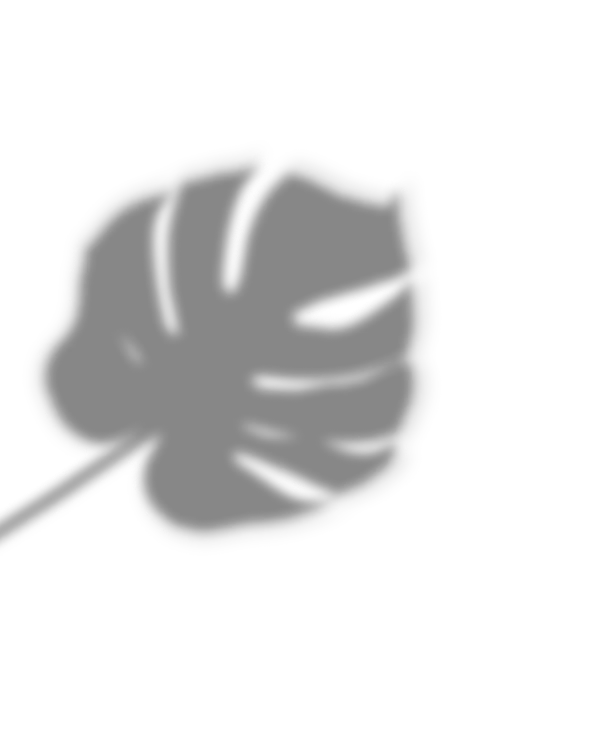
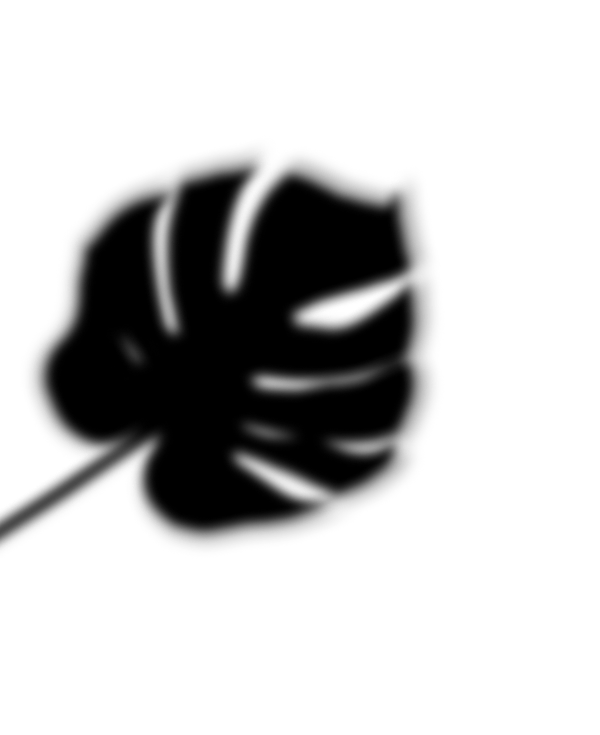
Black and white, high contrast; coloured wax in the chameleon
- Background rebuilt from the colour version by hue: the sky and everything
  above the sunset pure white, the sea and ground black (pale water near the
  horizon fades through grey)
- Black sun, black leaves, laptop as a white outline with black screen/keys;
  white wave lines on the water
- Contact on the black sea: white type, dark glass buttons, white icons
- The chameleon is a black lava lamp whose wax keeps each project's colour
- Cloud layers hidden (nothing to show on a white sky)

Claude-Session: https://claude.ai/code/session_01DvA43kwznhfsetrajp2DeL

Changed region(s): [[0.0, 0.2095, 0.72, 0.7483]]

diff --git a/styles.css b/styles.css
@@ -36,7 +36,7 @@ body {
   height: 6797px;
   overflow: clip;   /* not hidden: that would stop the sticky chameleon */
   /* All artwork, exported from the Figma frame with text and icons hidden */
-  background: #fff url("assets/background.webp?v=bw") top left / 1440px 6797px no-repeat;
+  background: #fff url("assets/background.webp?v=bw3") top left / 1440px 6797px no-repeat;
   /* script.js sets `zoom` so the 1440px design fills the viewport width */
 }
 
@@ -80,7 +80,7 @@ body {
 .pin-wrap { position: absolute; left: 0; top: 459px; width: 1440px; height: 2200px; }
 .pin {
   position: sticky; top: var(--pin-top, -361px); width: 1440px; height: 1500px; overflow: clip;
-  background: #fff url("assets/background.webp?v=bw") 0 -459px / 1440px 6797px no-repeat;
+  background: #fff url("assets/background.webp?v=bw3") 0 -459px / 1440px 6797px no-repeat;
 }
 
 /* moved by script.js while pinned: the white cloud shape settles in the centre,
@@ -557,7 +557,7 @@ a:focus-visible { outline: 2px solid var(--white); outline-offset: 4px; }
 
   .sec {
     position: relative; top: auto !important; width: 100%; padding: 0 20px;
-    background: url("assets/background.webp?v=bw") no-repeat;
+    background: url("assets/background.webp?v=bw3") no-repeat;
     background-size: calc(1440px * var(--s, 1)) auto;
     background-position: center calc(var(--y0, 0) * var(--s, 1) * -1px);
   }
@@ -575,7 +575,7 @@ a:focus-visible { outline: 2px solid var(--white); outline-offset: 4px; }
      second background, and the crop fades into the white of the Work section */
   #about {
     --y0: 750; --s: .8; min-height: 690px; padding-top: 40px; padding-bottom: 110px;
-    background-image: url("assets/clouds.webp?v=bw"), url("assets/background.webp?v=bw");
+    background-image: url("assets/clouds.webp?v=bw2"), url("assets/background.webp?v=bw3");
     background-size: calc(1440px * var(--s)) auto;
     background-position: calc(-60px * var(--s)) calc((1190 - var(--y0)) * var(--s) * 1px), calc(-60px * var(--s)) calc(var(--y0) * var(--s) * -1px);
   }
@@ -606,7 +606,7 @@ a:focus-visible { outline: 2px solid var(--white); outline-offset: 4px; }
   .wcard .thumb { font-size: 22px; }
 
   .sunset { padding: 0; overflow: hidden; background: none; }
-  .sunset-art { zoom: var(--mz, .45); margin-left: -300px; background: url("assets/background.webp?v=bw") 0 -5340px / 1440px 6797px no-repeat; }
+  .sunset-art { zoom: var(--mz, .45); margin-left: -300px; background: url("assets/background.webp?v=bw3") 0 -5340px / 1440px 6797px no-repeat; }
   .sunset-art .l { position: absolute; left: var(--x); top: var(--y); width: auto; height: auto; }
 
   #contact { --y0: 6160; --s: .9; min-height: 600px; padding-top: 44px; padding-bottom: 110px; text-align: center; }
@@ -657,11 +657,10 @@ html.sparkle-on, html.sparkle-on * { cursor: none !important; }
 @media (prefers-reduced-motion: reduce) { .loader-logo { animation-duration: 12s; } }
 
 /* ---------- Black and white ----------
-   The whole site in black, white and greys: black type on a white page, the
-   artwork baked into pale greys (background, clouds, leaf), photos and the
-   remaining coloured artwork desaturated here, project colours turned into
-   greys in chameleon.js. The colour tokens above are remapped, so everything
-   that uses them follows. */
+   High contrast: black type on a white page, white sky, black water and ground
+   (baked into the background by hue), black sun, leaves and laptop details.
+   The only colour left is the wax in the lava-lamp chameleon (chameleon.js).
+   The colour tokens above are remapped, so everything that uses them follows. */
 :root {
   --ink: #222;
   --white: var(--ink);          /* used for type on the stage */
@@ -679,9 +678,9 @@ body { color: var(--ink); }
 .btn:hover { filter: none; background: #000; }
 a:focus-visible { outline-color: var(--ink); }
 .bird { filter: blur(3px) grayscale(1) invert(1); opacity: .22; }      /* the light bird becomes a soft grey ghost */
-.fish, .sunset-art > img, .wcard .thumb, .tongue-layer, .cham, .swatch,
+.fish, .wcard .thumb, .tongue-layer,
 .peek-img, .result-art, .p-mini, .cloudpop .field-head, .cloudpop .plate, .cloudpop .toolbox, .sheet .panel { filter: grayscale(1); }
-.cham .aura > i, .cham .halo > i { background: #9a9a9a; }
+.cham .aura > i, .cham .halo > i { background: #bdbdbd; }
 .screen { color: #fff; }
 .caret { background: #fff; }
 
@@ -701,3 +700,14 @@ a:focus-visible { outline-color: var(--ink); }
 .js .loader { background: #fff; }
 .loader-text { color: var(--ink); }
 .cloudpop { background: radial-gradient(120% 70% at 50% 0%, #f1f1f1 0%, #fff 60%); }
+
+/* contact sits on the black sea: white type, dark glass */
+#contact .type img { filter: invert(1); }
+#contact .t-body { color: #fff !important; }
+#contact .t-email, #contact .social { border-color: rgba(255, 255, 255, .45); background: rgba(255, 255, 255, .08); box-shadow: none; }
+#contact .t-email { color: #fff !important; }
+#contact .t-email:hover, #contact .t-email:focus-visible, #contact .social:hover, #contact .social:focus-visible { background: rgba(255, 255, 255, .2); }
+#contact .social img { filter: brightness(0) invert(1); }
+/* with a white sky the cloud layers have nothing left to show */
+.sky-puff, .clouds-px { display: none !important; }
+@media (max-width: 760px) { #about { background-image: url("assets/background.webp?v=bw3"); background-position: calc(-60px * var(--s)) calc(var(--y0) * var(--s) * -1px); } }

diff --git a/index.html b/index.html
@@ -11,7 +11,7 @@
   <link rel="preconnect" href="https://fonts.googleapis.com">
   <link rel="preconnect" href="https://fonts.gstatic.com" crossorigin>
   <link rel="stylesheet" href="https://fonts.googleapis.com/css2?family=Archivo:wdth,wght@125,400;125,700&family=Italiana&family=Unbounded:wght@300;400;500&display=swap">
-  <link rel="stylesheet" href="styles.css?v=385d8996">
+  <link rel="stylesheet" href="styles.css?v=0723b91c">
   <script>document.documentElement.classList.add('js', 'is-loading')</script>
 </head>
 <body>
@@ -35,8 +35,8 @@
     <div class="pin-wrap" id="pinWrap">
       <div class="pin" id="pin">
         <img class="l sky-puff" id="skyPuff" style="--x:661px;--y:306px;--w:695px;--h:855px" src="assets/sky-puff.webp" alt="">
-        <img class="l clouds-px clouds-l" id="cloudsL" style="--x:0;--y:731px;--w:1440px;--h:700px" src="assets/clouds.webp?v=bw" alt="">
-        <img class="l clouds-px clouds-r" id="cloudsR" style="--x:0;--y:731px;--w:1440px;--h:700px" src="assets/clouds.webp?v=bw" alt="">
+        <img class="l clouds-px clouds-l" id="cloudsL" style="--x:0;--y:731px;--w:1440px;--h:700px" src="assets/clouds.webp?v=bw2" alt="">
+        <img class="l clouds-px clouds-r" id="cloudsR" style="--x:0;--y:731px;--w:1440px;--h:700px" src="assets/clouds.webp?v=bw2" alt="">
 
         <section class="sec" id="about" style="top:400px" aria-labelledby="hello">
           <h2 class="l reveal type" id="hello" style="--d:0s;--x:178.65px;--y:11.58px"><img src="assets/type-hello.svg?v=bw2" width="306" height="121" alt="Hello,"></h2>
@@ -64,17 +64,17 @@
          The laptop screen links to Behance (BEHANCE_URL in script.js). -->
     <div class="sec sunset" style="top:5340px">
       <div class="sunset-art">
-        <img class="l" style="--x:390px;--y:16px" src="assets/sun.svg" width="661" height="661" alt="">
+        <img class="l" style="--x:390px;--y:16px" src="assets/sun.svg?v=bw2" width="661" height="661" alt="">
         <img class="l" style="--x:0px;--y:551px" src="assets/waves.svg" width="1440" height="264" alt="">
-        <img class="l" style="--x:513.1px;--y:293px" src="assets/laptop.svg" width="553" height="496" alt="">
+        <img class="l" style="--x:513.1px;--y:293px" src="assets/laptop.svg?v=bw2" width="553" height="496" alt="">
         <a class="l screen" id="screen" style="--x:554.2px;--y:413px" href="#" data-behance target="_blank" rel="noopener">
           <span class="s-k">Discover more projects</span><span class="s-t"><span id="scrText">on Behance</span><span class="caret" aria-hidden="true"></span></span>
         </a>
         <!-- Two leaves (the Figma leaf and its mirror) close over the sun and laptop and
              swing outwards on their stems as the sunset scrolls up (script.js). Each stem
              end sits at the screen edge: (-40, 620) and (1480, 620). -->
-        <img class="l leaf leaf-l" id="leafL" style="--x:-40px;--y:91px" src="assets/leaf.webp?v=bw" width="600" height="735" alt="">
-        <img class="l leaf leaf-r" id="leafR" style="--x:1480px;--y:91px" src="assets/leaf.webp?v=bw" width="600" height="735" alt="">
+        <img class="l leaf leaf-l" id="leafL" style="--x:-40px;--y:91px" src="assets/leaf.webp?v=bw2" width="600" height="735" alt="">
+        <img class="l leaf leaf-r" id="leafR" style="--x:1480px;--y:91px" src="assets/leaf.webp?v=bw2" width="600" height="735" alt="">
       </div>
     </div>
     <img class="l fish" style="--x:-171px;--y:5877px;--w:3150px;--h:2100px" src="assets/fish.gif" alt="">
@@ -211,6 +211,6 @@
   <script src="loader.js?v=68ee955a"></script>
   <script src="script.js?v=f0a7e9d4"></script>
   <script src="about.js?v=37dfe53c"></script>
-  <script src="chameleon.js?v=93829f99"></script>
+  <script src="chameleon.js?v=d8f12a26"></script>
 </body>
 </html>

diff --git a/chameleon.js b/chameleon.js
@@ -74,10 +74,11 @@
     }
   ];
 
-  // black and white: every project colour becomes the grey of the same lightness
+  // black and white site: the chameleon is a black lamp and only its wax keeps the
+  // project's colour; the card placeholders become greys of the same lightness
   const grey = h => { const [r, g, b] = [1, 3, 5].map(k => parseInt(h.slice(k, k + 2), 16));
     const l = Math.round(.299 * r + .587 * g + .114 * b).toString(16).padStart(2, '0'); return '#' + l + l + l; };
-  PROJECTS.forEach(p => { for (const k of ['hex', 'lava', 'tint']) if (p[k]) p[k] = grey(p[k]); });
+  PROJECTS.forEach(p => { p.lava = '#151515'; p.tint = grey(p.tint || p.hex); });
 
   const page = $('.stage');
   const list = $('#workList'), workStage = $('.work-stage'), nowName = $('#nowName');
